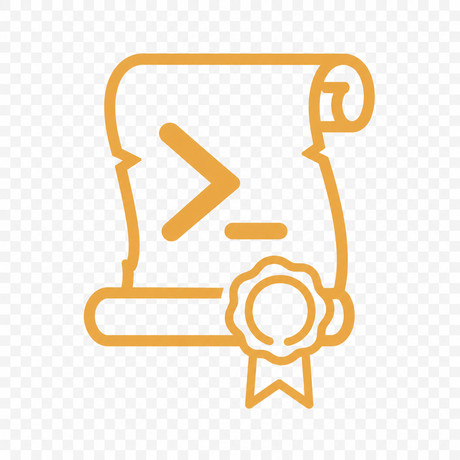
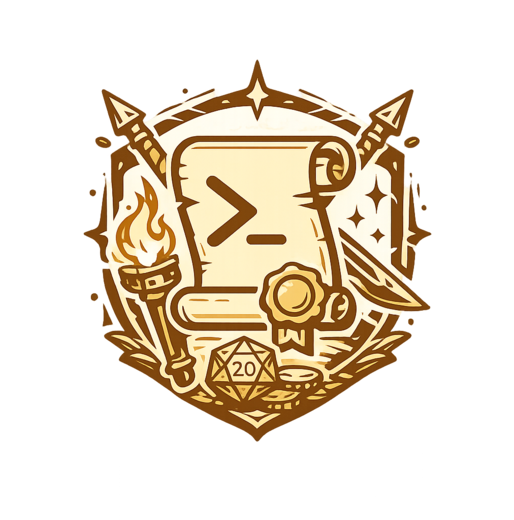
docs(tutorial): swap hero emblem for the richer d20 crest
Replace the line-art emblem with the fuller crest (scroll + prompt + wax
seal + torch + crossed spears + sword + d20) — the d20 lands the gamer
signal and the torchlit glow suits the theme. Center-cropped to a square,
trimmed, resized to 520px; transparent (corner alpha 0), so it sits clean on
the ink hero. Bumped the desktop slot to 264px and corrected the aspect.

diff --git a/docs/styles.css b/docs/styles.css
@@ -93,11 +93,11 @@ em { font-style: normal; color: var(--amber); }
 /* brand emblem sits in the right gutter on desktop; hidden on phones to keep the hero clean */
 .hero__emblem { display: none; }
 @media (min-width: 900px) {
-  .hero { padding-right: 290px; }
+  .hero { padding-right: 330px; }
   .hero__emblem {
     display: block; position: absolute; right: var(--step);
-    top: clamp(3rem, 6vw, 5.5rem); width: 230px; height: 230px; opacity: .92;
-    filter: drop-shadow(0 8px 30px rgba(227,168,87,.25));
+    top: clamp(2.5rem, 5vw, 4.5rem); width: 264px; height: auto; opacity: .96;
+    filter: drop-shadow(0 10px 34px rgba(227,168,87,.28));
   }
 }
 .eyebrow, .kicker {

diff --git a/docs/index.html b/docs/index.html
@@ -31,7 +31,7 @@
   <main id="main">
     <!-- =============================== HERO =============================== -->
     <section class="hero wrap" id="top" aria-labelledby="hero-h">
-      <img class="hero__emblem" src="assets/emblem.png" alt="" aria-hidden="true" width="230" height="230" onerror="this.style.display='none'" />
+      <img class="hero__emblem" src="assets/emblem.png" alt="" aria-hidden="true" width="514" height="520" onerror="this.style.display='none'" />
       <p class="eyebrow">A Claude Code plugin</p>
       <h1 id="hero-h" class="hero__title">
         Claude Code forgets between chats.<br />
